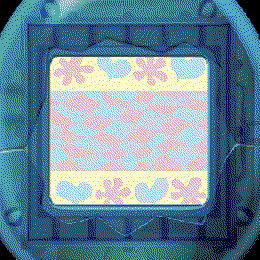
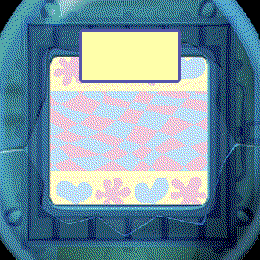
Possible fix for bg not working on gabbro

Changed region(s): [[0.2769, 0.0923, 0.7077, 0.3385]]

diff --git a/TamaTime/src/c/tamagotchi_face.c b/TamaTime/src/c/tamagotchi_face.c
@@ -40,7 +40,7 @@ static bool is_empty_or_whitespace(const char *str)
 static Window *s_main_window;
 static BitmapLayer *s_background_layer;
 static Layer *s_screen_layer; 
-static Layer *s_small_screen_layer; //TODO make another layer for small screen!!
+static Layer *s_small_screen_layer;
 static Layer *s_icons_layer;
 static TextLayer *s_text_layer; // unused?
 //static GFont s_lcd_font;
@@ -275,7 +275,6 @@ const uint8_t pm[] = {
 
 // Bitmaps
 static GBitmap *s_bitmap_bg;
-static GBitmap *s_bitmap_bg_screen;
 static GBitmap *s_bitmap_icon8;
 
 uint8_t memory[MEM_BUFFER_SIZE];
@@ -526,7 +525,14 @@ static void prv_inbox_received_handler(DictionaryIterator *iter, void *context) 
 
     if (is_empty_or_whitespace(url))
     {
+      gbitmap_destroy(s_bitmap_bg);
+      #if defined(PBL_COLOR)
+        s_bitmap_bg = gbitmap_create_with_resource(RESOURCE_ID_BG_IMAGE); 
+      #else
+        s_bitmap_bg = gbitmap_create_with_resource(RESOURCE_ID_BG_IMAGE_BW);
+      #endif
       bitmap_layer_set_bitmap(s_background_layer, s_bitmap_bg);
+      
       s_time_on_big_screen = true;
       // clear small screen
       ClearScreen(false);
@@ -539,7 +545,13 @@ static void prv_inbox_received_handler(DictionaryIterator *iter, void *context) 
     }
     else
     {
-      bitmap_layer_set_bitmap(s_background_layer, s_bitmap_bg_screen);
+      gbitmap_destroy(s_bitmap_bg);
+      #if defined(PBL_COLOR)
+        s_bitmap_bg = gbitmap_create_with_resource(RESOURCE_ID_BG_IMAGE_SCREEN); 
+      #else
+        s_bitmap_bg = gbitmap_create_with_resource(RESOURCE_ID_BG_IMAGE_BW_SCREEN);
+      #endif
+      bitmap_layer_set_bitmap(s_background_layer, s_bitmap_bg);
       requestStateFromServer();
     }
   }
@@ -769,10 +781,8 @@ static void main_window_load(Window *window) {
   // Create GBitmap for background 
 #if defined(PBL_COLOR)
   s_bitmap_bg = gbitmap_create_with_resource(RESOURCE_ID_BG_IMAGE); 
-  s_bitmap_bg_screen = gbitmap_create_with_resource(RESOURCE_ID_BG_IMAGE_SCREEN);
 #else
   s_bitmap_bg = gbitmap_create_with_resource(RESOURCE_ID_BG_IMAGE_BW);
-  s_bitmap_bg_screen = gbitmap_create_with_resource(RESOURCE_ID_BG_IMAGE_BW_SCREEN);
 #endif
 
   // Create background layer
@@ -793,20 +803,21 @@ static void main_window_load(Window *window) {
   {
     char url[128];
     persist_read_string(API_URL_KEY, url, sizeof(url));
-
     hasServerUrl = !is_empty_or_whitespace(url);
   }
 
-  APP_LOG(APP_LOG_LEVEL_ERROR, "hasServerUrl: %d", (int)hasServerUrl);
-
   if (hasServerUrl)
   {
-    bitmap_layer_set_bitmap(s_background_layer, s_bitmap_bg_screen);
+    gbitmap_destroy(s_bitmap_bg);
+
+    #if defined(PBL_COLOR)
+      s_bitmap_bg = gbitmap_create_with_resource(RESOURCE_ID_BG_IMAGE_SCREEN); 
+    #else
+      s_bitmap_bg = gbitmap_create_with_resource(RESOURCE_ID_BG_IMAGE_BW_SCREEN);
+    #endif
   }
-  else
-  {
-    bitmap_layer_set_bitmap(s_background_layer, s_bitmap_bg);
-  }
+
+  bitmap_layer_set_bitmap(s_background_layer, s_bitmap_bg);
 
   // Add it as a child layer to the Window's root layer
   layer_add_child(window_layer, bitmap_layer_get_layer(s_background_layer));
@@ -882,7 +893,6 @@ static void main_window_load(Window *window) {
 static void main_window_unload(Window *window) {
   // Destroy backrgound bitmap and its layer
   gbitmap_destroy(s_bitmap_bg);
-  gbitmap_destroy(s_bitmap_bg_screen);
   bitmap_layer_destroy(s_background_layer);
 
   // Destroy text layer
